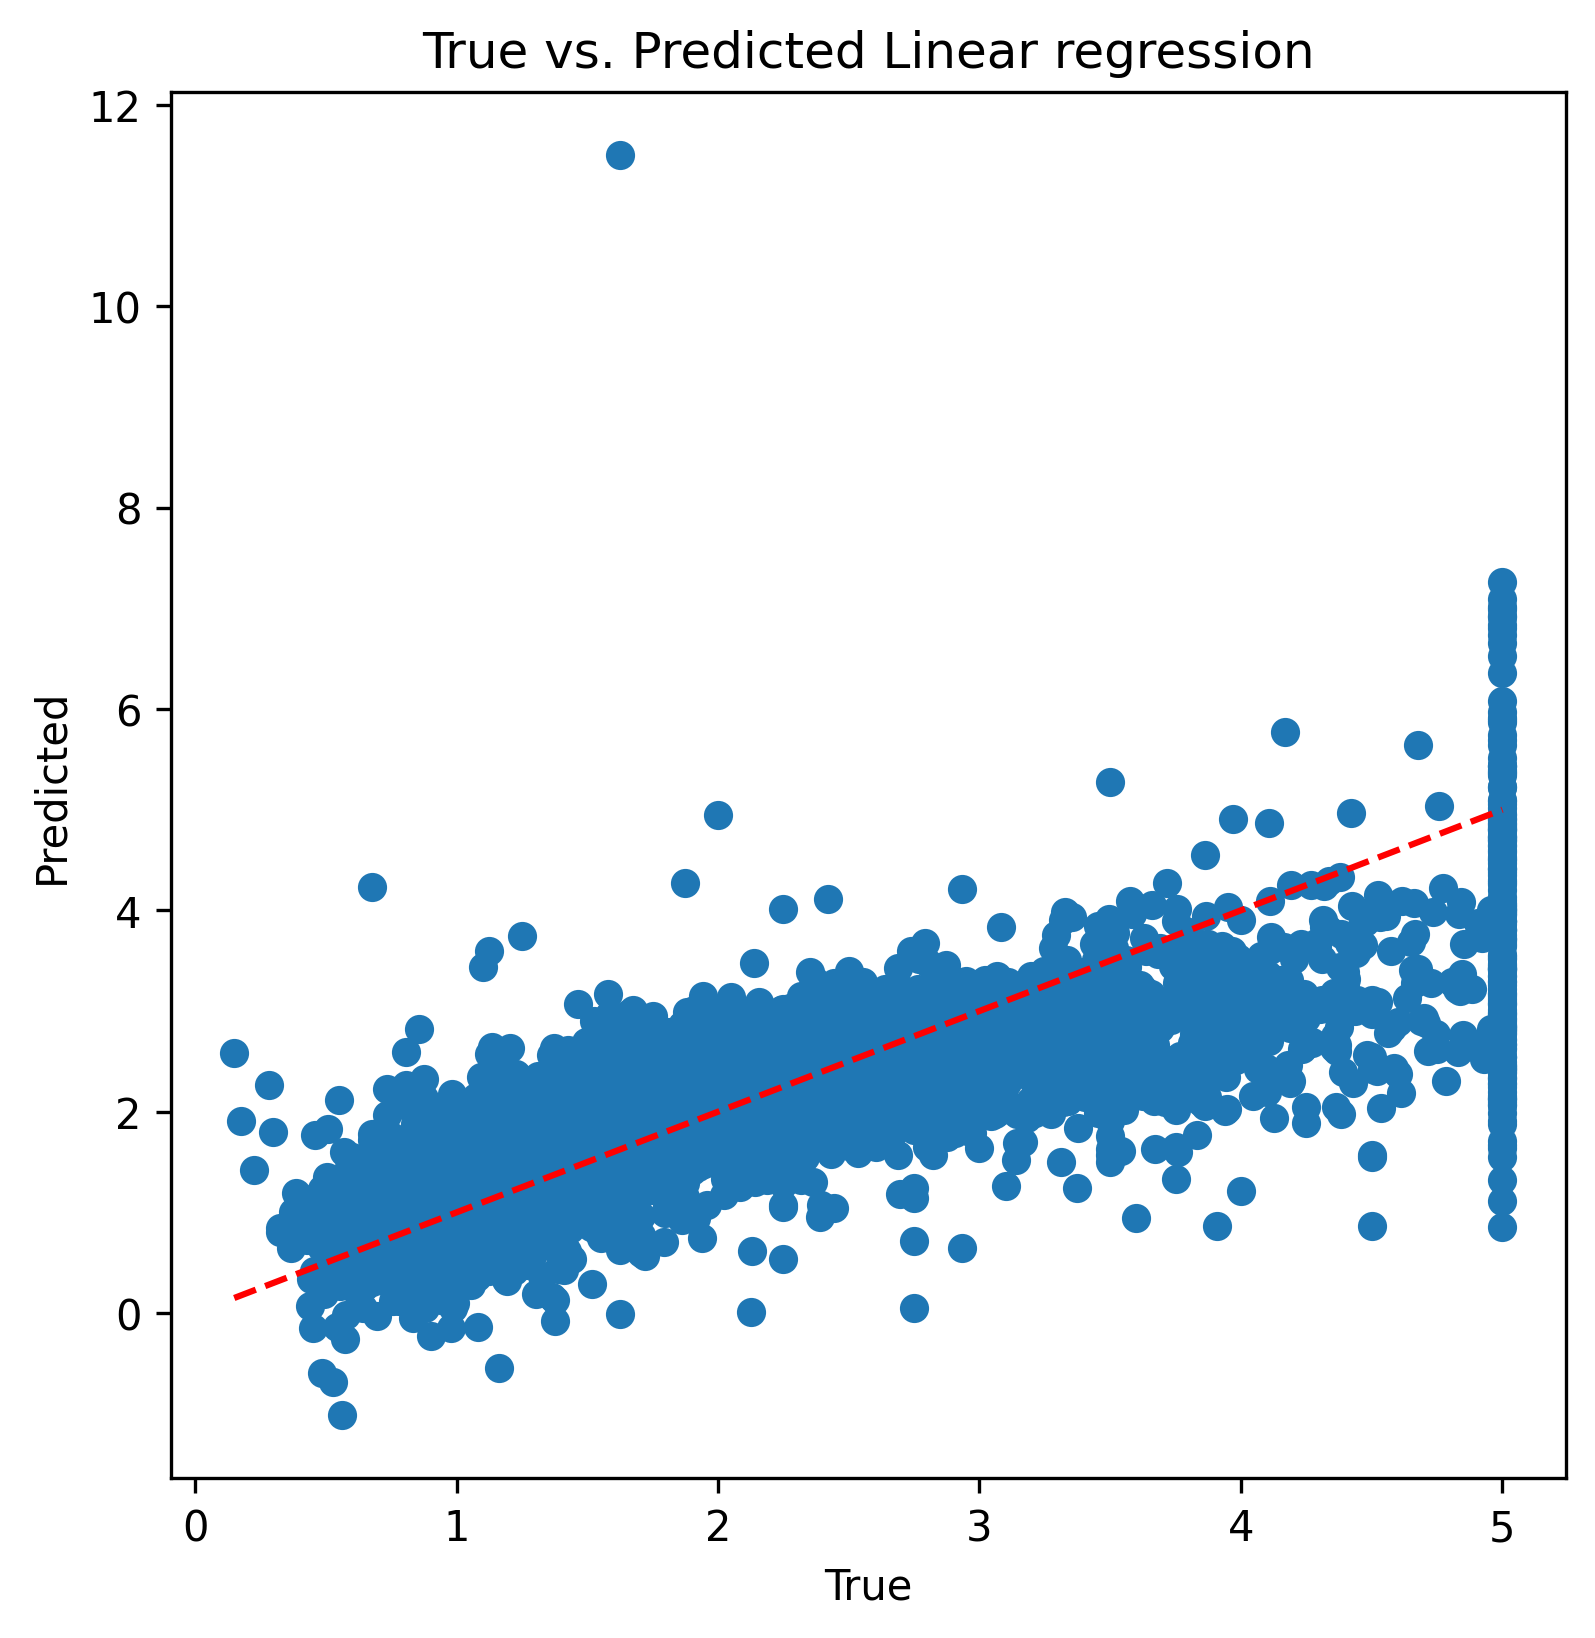
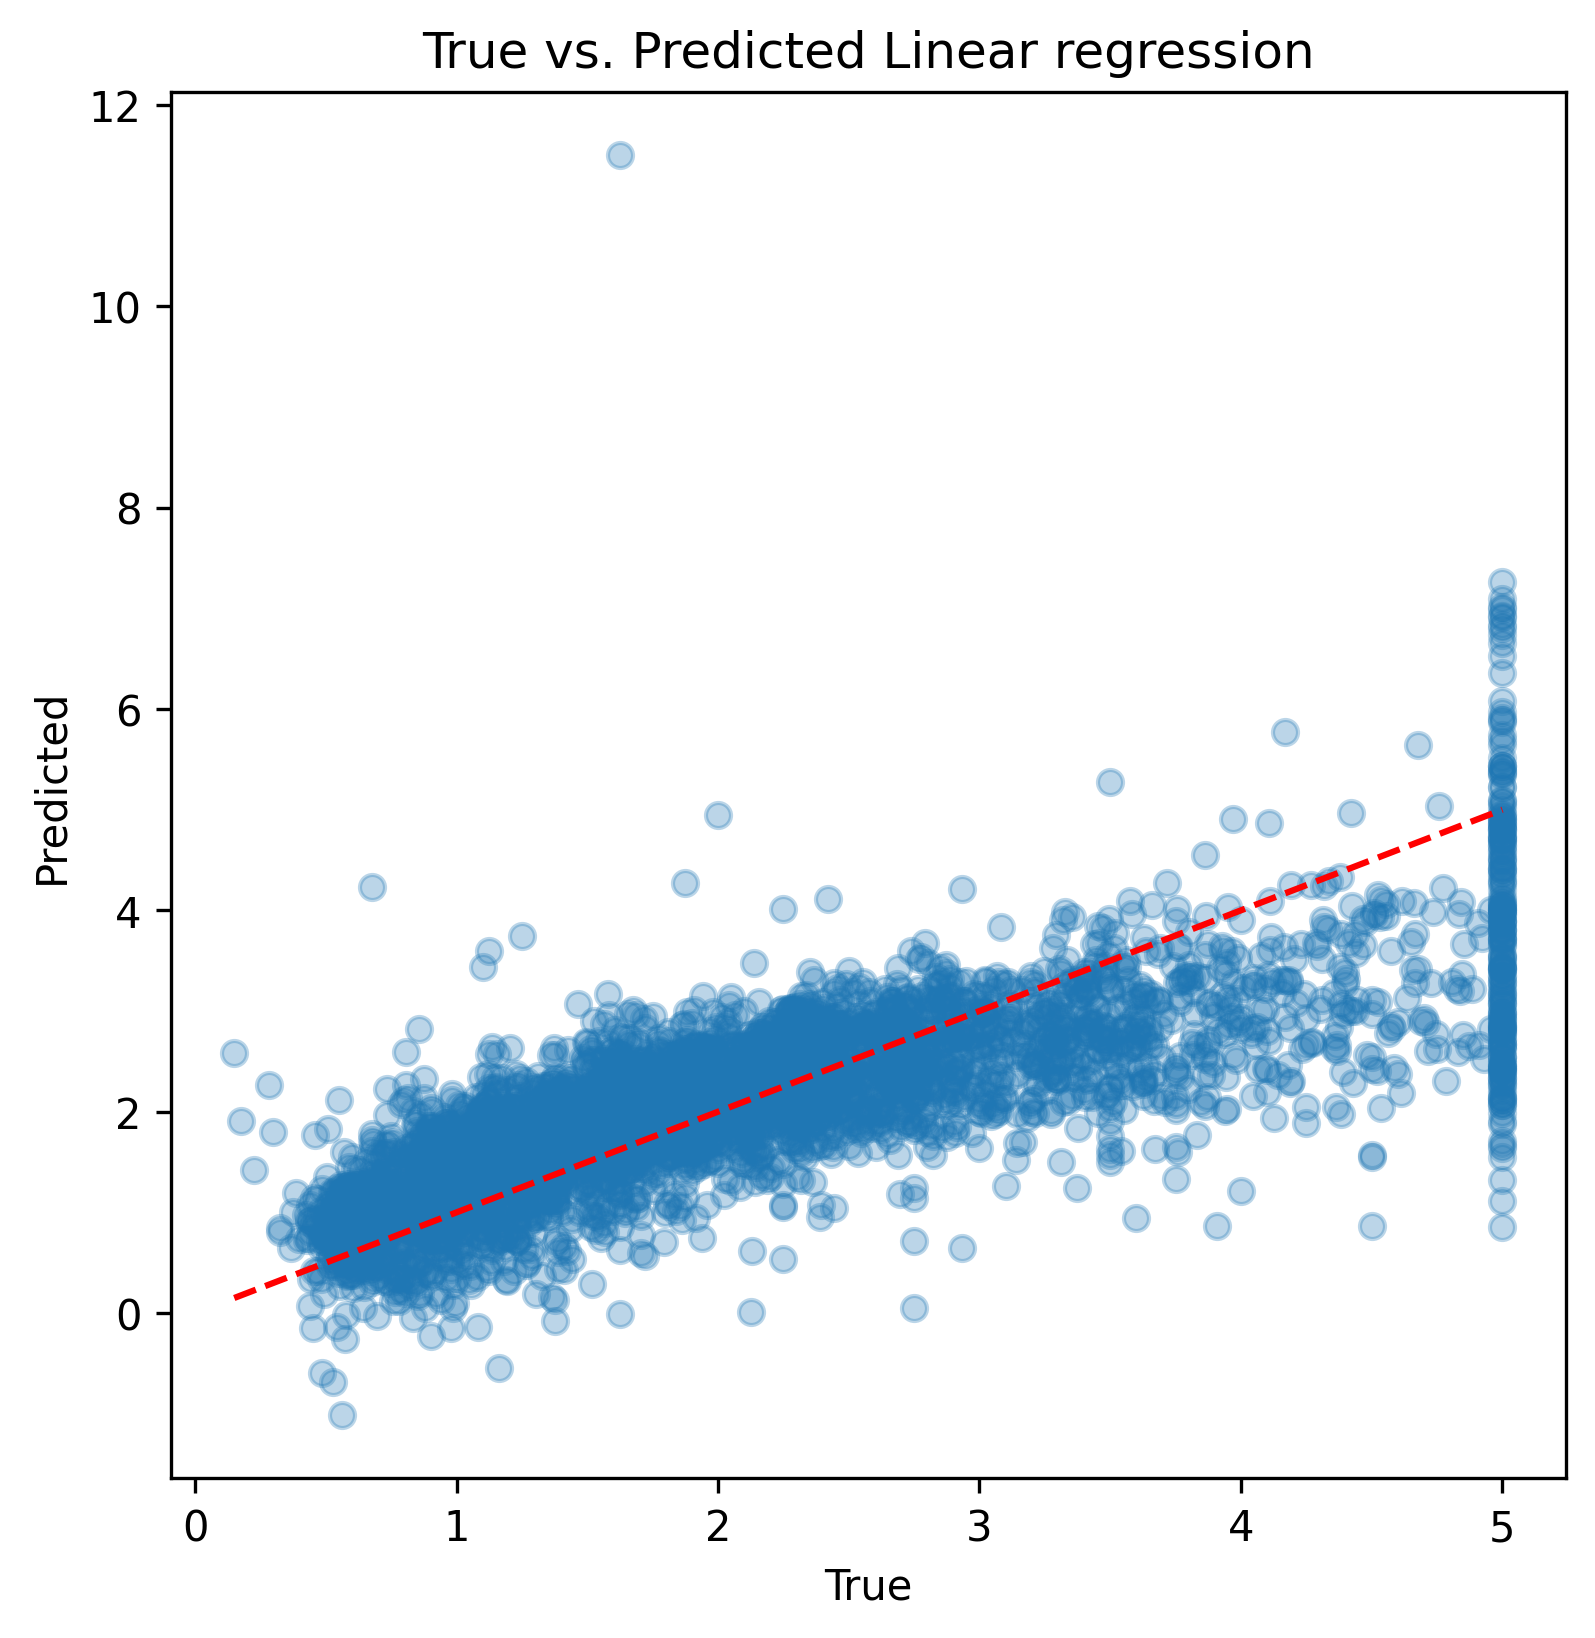
update

diff --git a/src/tool.py b/src/tool.py
@@ -10,12 +10,13 @@ def get_metrics(y, y_pred, model_name, data):
       "data": data,
       "r^2": r2_score(y, y_pred),
       "mae": mean_absolute_error(y, y_pred),
-      "mse": mean_squared_error(y, y_pred)
+      "mse": mean_squared_error(y, y_pred),
+      "rmse": mean_squared_error(y, y_pred) ** 0.5
   }
 
 def plot_true_vs_pred(test, pred, name):
-  plt.figure(figsize=(6,6), alpha=0.3)
-  plt.scatter(test, pred)
+  plt.figure(figsize=(6,6))
+  plt.scatter(test, pred, alpha=0.3)
   plt.plot([min(test), max(test)], [min(test), max(test)], 'r--')  # y=x line
   plt.xlabel('True')
   plt.ylabel('Predicted')